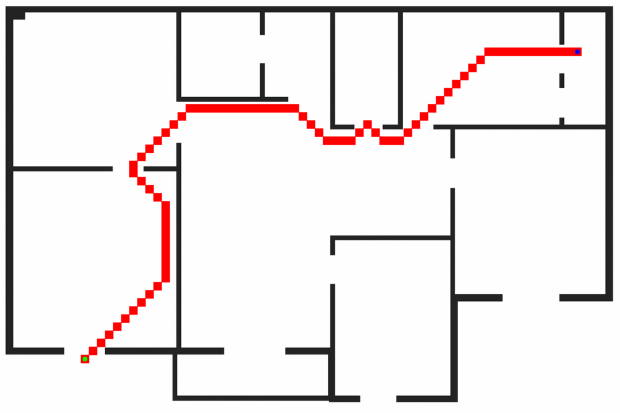
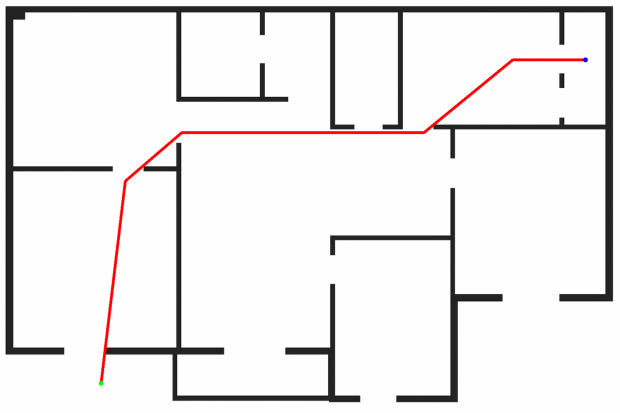
New pathfinder

Changed region(s): [[0.1839, 0.1162, 0.95, 0.6683], [0.1226, 0.4649, 0.2758, 0.9298]]

diff --git a/Maze.py b/Maze.py
@@ -7,27 +7,30 @@ import os
 
 
 # --------------------------
-# Heuristic function (Manhattan distance)
+# Octile heuristic (8 directional)
 # --------------------------
 def heuristic(a, b):
-    return abs(a[0] - b[0]) + abs(a[1] - b[1])
+    dx = abs(a[0] - b[0])
+    dy = abs(a[1] - b[1])
+    return max(dx, dy) + 0.414 * min(dx, dy)
 
 
 # --------------------------
-# A* pathfinding algorithm
+# A* with turn penalty
 # --------------------------
 def astar(grid, start, goal):
     h, w = grid.shape
     open_set = []
-    heappush(open_set, (heuristic(start, goal), 0, start))
+    heappush(open_set, (heuristic(start, goal), 0, start, None))
     came_from = {}
     g_score = {start: 0}
 
-    # 8 possible movement directions
-    directions = [(-1,0),(1,0),(0,-1),(0,1),(-1,-1),(-1,1),(1,-1),(1,1)]
+    directions = [(-1, 0), (1, 0), (0, -1), (0, 1),
+                  (-1, -1), (-1, 1), (1, -1), (1, 1)]
 
     while open_set:
-        _, cost, current = heappop(open_set)
+        _, cost, current, prev_dir = heappop(open_set)
+
         if current == goal:
             path = []
             while current in came_from:
@@ -38,91 +41,120 @@ def astar(grid, start, goal):
 
         for dy, dx in directions:
             ny, nx = current[0] + dy, current[1] + dx
-            ny, nx = int(ny), int(nx)
-            if 0 <= ny < h and 0 <= nx < w and grid[ny, nx] == 1:
-                new_cost = cost + 1
-                if (ny, nx) not in g_score or new_cost < g_score[(ny, nx)]:
-                    g_score[(ny, nx)] = new_cost
-                    priority = new_cost + heuristic((ny, nx), goal)
-                    heappush(open_set, (priority, new_cost, (ny, nx)))
-                    came_from[(ny, nx)] = current
+            if not (0 <= ny < h and 0 <= nx < w):
+                continue
+            if grid[ny, nx] == 0:
+                continue
+
+            move_cost = 1.414 if dy != 0 and dx != 0 else 1
+            if prev_dir and prev_dir != (dy, dx):
+                move_cost += 0.2
+
+            new_cost = cost + move_cost
+            neighbor = (ny, nx)
+
+            if neighbor not in g_score or new_cost < g_score[neighbor]:
+                g_score[neighbor] = new_cost
+                priority = new_cost + heuristic(neighbor, goal)
+                heappush(open_set, (priority, new_cost, neighbor, (dy, dx)))
+                came_from[neighbor] = current
 
     return None
 
 
 # --------------------------
-# Main map generation function
+# Post smoothing (less aggressive)
+# --------------------------
+def smooth_path(path, grid):
+    smoothed = [path[0]]
+    last = path[0]
+    for i in range(1, len(path)):
+        if not has_line_of_sight(grid, last, path[i]):
+            smoothed.append(path[i - 1])
+            last = path[i - 1]
+    smoothed.append(path[-1])
+    return smoothed
+
+
+# --------------------------
+# Bresenham line-of-sight
+# --------------------------
+def has_line_of_sight(grid, a, b):
+    y0, x0 = a
+    y1, x1 = b
+    dy = abs(y1 - y0)
+    dx = abs(x1 - x0)
+    sy = 1 if y1 > y0 else -1
+    sx = 1 if x1 > x0 else -1
+    err = dx - dy
+    while True:
+        if grid[y0, x0] == 0:
+            return False
+        if (y0, x0) == (y1, x1):
+            break
+        e2 = 2 * err
+        if e2 > -dy:
+            err -= dy
+            x0 += sx
+        if e2 < dx:
+            err += dx
+            y0 += sy
+    return True
+
+
+# --------------------------
+# Generate path map
 # --------------------------
 def generate_map(start, goal):
-    
-    # 1. Load and preprocess floorplan
     img = cv2.imread('static/floorplan1.png', cv2.IMREAD_GRAYSCALE)
     if img is None:
         raise FileNotFoundError("Could not find 'static/floorplan1.png'.")
-   
+
     h, w = img.shape
     print(f"Image size: width={w}, height={h}")
 
-    # Convert to binary (1 = free, 0 = wall)
     _, binary = cv2.threshold(img, 128, 255, cv2.THRESH_BINARY)
     binary = (binary == 255).astype(np.uint8)
 
-    # 2. Discretize image into grid cells
-    cell_size = 20  # pixels per cell
+    cell_size = 20
     grid_h, grid_w = h // cell_size, w // cell_size
     grid = np.zeros((grid_h, grid_w), dtype=np.uint8)
 
     for y in range(grid_h):
         for x in range(grid_w):
             cell = binary[y*cell_size:(y+1)*cell_size, x*cell_size:(x+1)*cell_size]
-            grid[y, x] = 1 if np.all(cell == 1) else 0
+            grid[y, x] = 1 if np.count_nonzero(cell) > 0.8 * (cell_size**2) else 0
 
-    # 3. Convert normalized coords (0–1) → pixel → grid
-    OFFSET = 0.00  # small padding from edges
-
-    # Clamp between 0 and 1 just in case
     start = np.clip(start, 0.0, 1.0)
     goal = np.clip(goal, 0.0, 1.0)
-
-    # Apply offset adjustment (if your clicks are slightly off)
-    start = start * (1 - 2*OFFSET) + OFFSET
-    goal  = goal  * (1 - 2*OFFSET) + OFFSET
-
-    # Convert normalized to pixel coordinates
     start_px = (start[0] * w, start[1] * h)
-    goal_px  = (goal[0]  * w, goal[1]  * h)
-
+    goal_px = (goal[0] * w, goal[1] * h)
     start_grid = (int(start_px[1] // cell_size), int(start_px[0] // cell_size))
-    goal_grid  = (int(goal_px[1]  // cell_size), int(goal_px[0]  // cell_size))
+    goal_grid = (int(goal_px[1] // cell_size), int(goal_px[0] // cell_size))
 
-    print(f"\nNormalized start: {start}")
-    print(f"Normalized goal:  {goal}")
-    print(f"Pixel start: {start_px}")
-    print(f"Pixel goal:  {goal_px}")
-    print(f"Grid start: {start_grid}")
-    print(f"Grid goal:  {goal_grid}")
+    print(f"Grid start: {start_grid}, goal: {goal_grid}")
 
-    # 4. A* pathfinding
-    try:
-        path = astar(grid, start_grid, goal_grid)
-        if path is None:
-            raise ValueError("❌ No path found from entrance to destination.")
-    except Exception as e:
-        print(f"⚠ Pathfinding error: {e}")
-        sys.exit(1)
+    path = astar(grid, start_grid, goal_grid)
+    if not path:
+        raise ValueError("❌ No path found")
 
-    # 5. Visualize path
-    path_pixels = [(y*cell_size + cell_size//2, x*cell_size + cell_size//2) for y, x in path]
+    # Less aggressive smoothing
+    smoothed = smooth_path(path, grid)
+
     color = cv2.cvtColor(img, cv2.COLOR_GRAY2BGR)
 
-    for y, x in path_pixels:
-        cv2.rectangle(color, (x - cell_size//2, y - cell_size//2),
-                      (x + cell_size//2, y + cell_size//2), (0, 0, 255), -1)
+    # Draw thick continuous path segments instead of isolated blocks
+    for i in range(1, len(smoothed)):
+        y1, x1 = smoothed[i-1]
+        y2, x2 = smoothed[i]
+        p1 = (int(x1*cell_size + cell_size/2), int(y1*cell_size + cell_size/2))
+        p2 = (int(x2*cell_size + cell_size/2), int(y2*cell_size + cell_size/2))
+        cv2.line(color, p1, p2, (0, 0, 255), 5)
 
-    start_pixel = (start_grid[1]*cell_size + cell_size//2, start_grid[0]*cell_size + cell_size//2)
-    goal_pixel = (goal_grid[1]*cell_size + cell_size//2, goal_grid[0]*cell_size + cell_size//2)
-    cv2.circle(color, start_pixel, 6, (0,255,0), -1)
-    cv2.circle(color, goal_pixel, 6, (255,0,0), -1)
+    start_c = (start_grid[1]*cell_size + cell_size//2, start_grid[0]*cell_size + cell_size//2)
+    goal_c = (goal_grid[1]*cell_size + cell_size//2, goal_grid[0]*cell_size + cell_size//2)
+    cv2.circle(color, start_c, 6, (0,255,0), -1)
+    cv2.circle(color, goal_c, 6, (255,0,0), -1)
 
     os.makedirs('static', exist_ok=True)
     output_path = os.path.join('static', 'floorplan2.png')
@@ -135,17 +167,12 @@ def generate_map(start, goal):
     print(f"✅ Path map saved as {output_path}")
 
 
-# --------------------------
-# Entry point
-# --------------------------
 if __name__ == "__main__":
     if len(sys.argv) != 5:
         print("Usage: python Maze.py <start_x> <start_y> <goal_x> <goal_y>")
         sys.exit(1)
 
-    # Normalized inputs (0–1)
     start = (float(sys.argv[1]), float(sys.argv[2]))
-    goal  = (float(sys.argv[3]), float(sys.argv[4]))
-
+    goal = (float(sys.argv[3]), float(sys.argv[4]))
     print(f"Running pathfinding from {start} → {goal}")
     generate_map(start, goal)

diff --git a/old/mazeold1.py b/old/mazeold1.py
@@ -1,0 +1,151 @@
+import sys
+import cv2
+import numpy as np
+import matplotlib.pyplot as plt
+from heapq import heappush, heappop
+import os
+
+
+# --------------------------
+# Heuristic function (Manhattan distance)
+# --------------------------
+def heuristic(a, b):
+    return abs(a[0] - b[0]) + abs(a[1] - b[1])
+
+
+# --------------------------
+# A* pathfinding algorithm
+# --------------------------
+def astar(grid, start, goal):
+    h, w = grid.shape
+    open_set = []
+    heappush(open_set, (heuristic(start, goal), 0, start))
+    came_from = {}
+    g_score = {start: 0}
+
+    # 8 possible movement directions
+    directions = [(-1,0),(1,0),(0,-1),(0,1),(-1,-1),(-1,1),(1,-1),(1,1)]
+
+    while open_set:
+        _, cost, current = heappop(open_set)
+        if current == goal:
+            path = []
+            while current in came_from:
+                path.append(current)
+                current = came_from[current]
+            path.append(start)
+            return path[::-1]
+
+        for dy, dx in directions:
+            ny, nx = current[0] + dy, current[1] + dx
+            ny, nx = int(ny), int(nx)
+            if 0 <= ny < h and 0 <= nx < w and grid[ny, nx] == 1:
+                new_cost = cost + 1
+                if (ny, nx) not in g_score or new_cost < g_score[(ny, nx)]:
+                    g_score[(ny, nx)] = new_cost
+                    priority = new_cost + heuristic((ny, nx), goal)
+                    heappush(open_set, (priority, new_cost, (ny, nx)))
+                    came_from[(ny, nx)] = current
+
+    return None
+
+
+# --------------------------
+# Main map generation function
+# --------------------------
+def generate_map(start, goal):
+    
+    # 1. Load and preprocess floorplan
+    img = cv2.imread('static/floorplan1.png', cv2.IMREAD_GRAYSCALE)
+    if img is None:
+        raise FileNotFoundError("Could not find 'static/floorplan1.png'.")
+   
+    h, w = img.shape
+    print(f"Image size: width={w}, height={h}")
+
+    # Convert to binary (1 = free, 0 = wall)
+    _, binary = cv2.threshold(img, 128, 255, cv2.THRESH_BINARY)
+    binary = (binary == 255).astype(np.uint8)
+
+    # 2. Discretize image into grid cells
+    cell_size = 20  # pixels per cell
+    grid_h, grid_w = h // cell_size, w // cell_size
+    grid = np.zeros((grid_h, grid_w), dtype=np.uint8)
+
+    for y in range(grid_h):
+        for x in range(grid_w):
+            cell = binary[y*cell_size:(y+1)*cell_size, x*cell_size:(x+1)*cell_size]
+            grid[y, x] = 1 if np.all(cell == 1) else 0
+
+    # 3. Convert normalized coords (0–1) → pixel → grid
+    OFFSET = 0.00  # small padding from edges
+
+    # Clamp between 0 and 1 just in case
+    start = np.clip(start, 0.0, 1.0)
+    goal = np.clip(goal, 0.0, 1.0)
+
+    # Apply offset adjustment (if your clicks are slightly off)
+    start = start * (1 - 2*OFFSET) + OFFSET
+    goal  = goal  * (1 - 2*OFFSET) + OFFSET
+
+    # Convert normalized to pixel coordinates
+    start_px = (start[0] * w, start[1] * h)
+    goal_px  = (goal[0]  * w, goal[1]  * h)
+
+    start_grid = (int(start_px[1] // cell_size), int(start_px[0] // cell_size))
+    goal_grid  = (int(goal_px[1]  // cell_size), int(goal_px[0]  // cell_size))
+
+    print(f"\nNormalized start: {start}")
+    print(f"Normalized goal:  {goal}")
+    print(f"Pixel start: {start_px}")
+    print(f"Pixel goal:  {goal_px}")
+    print(f"Grid start: {start_grid}")
+    print(f"Grid goal:  {goal_grid}")
+
+    # 4. A* pathfinding
+    try:
+        path = astar(grid, start_grid, goal_grid)
+        if path is None:
+            raise ValueError("❌ No path found from entrance to destination.")
+    except Exception as e:
+        print(f"⚠ Pathfinding error: {e}")
+        sys.exit(1)
+
+    # 5. Visualize path
+    path_pixels = [(y*cell_size + cell_size//2, x*cell_size + cell_size//2) for y, x in path]
+    color = cv2.cvtColor(img, cv2.COLOR_GRAY2BGR)
+
+    for y, x in path_pixels:
+        cv2.rectangle(color, (x - cell_size//2, y - cell_size//2),
+                      (x + cell_size//2, y + cell_size//2), (0, 0, 255), -1)
+
+    start_pixel = (start_grid[1]*cell_size + cell_size//2, start_grid[0]*cell_size + cell_size//2)
+    goal_pixel = (goal_grid[1]*cell_size + cell_size//2, goal_grid[0]*cell_size + cell_size//2)
+    cv2.circle(color, start_pixel, 6, (0,255,0), -1)
+    cv2.circle(color, goal_pixel, 6, (255,0,0), -1)
+
+    os.makedirs('static', exist_ok=True)
+    output_path = os.path.join('static', 'floorplan2.png')
+    plt.figure(figsize=(8,8))
+    plt.imshow(cv2.cvtColor(color, cv2.COLOR_BGR2RGB))
+    plt.axis('off')
+    plt.savefig(output_path, bbox_inches='tight', pad_inches=0)
+    plt.close()
+
+    print(f"✅ Path map saved as {output_path}")
+
+
+# --------------------------
+# Entry point
+# --------------------------
+if __name__ == "__main__":
+    if len(sys.argv) != 5:
+        print("Usage: python Maze.py <start_x> <start_y> <goal_x> <goal_y>")
+        sys.exit(1)
+
+    # Normalized inputs (0–1)
+    start = (float(sys.argv[1]), float(sys.argv[2]))
+    goal  = (float(sys.argv[3]), float(sys.argv[4]))
+
+    print(f"Running pathfinding from {start} → {goal}")
+    generate_map(start, goal)
